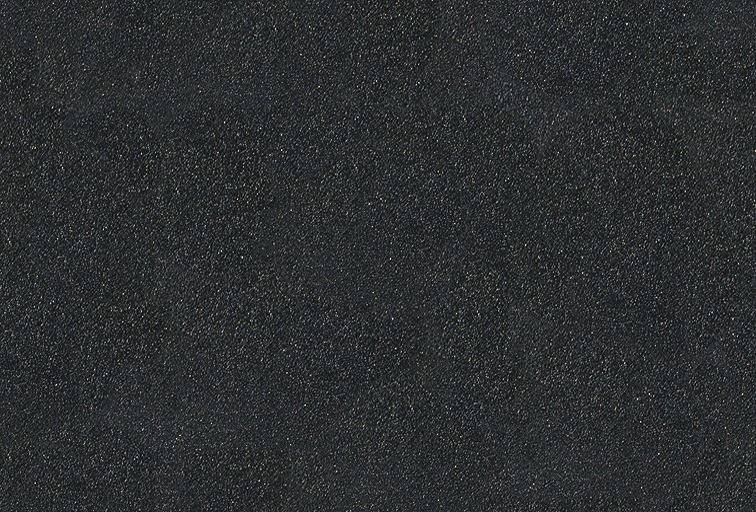
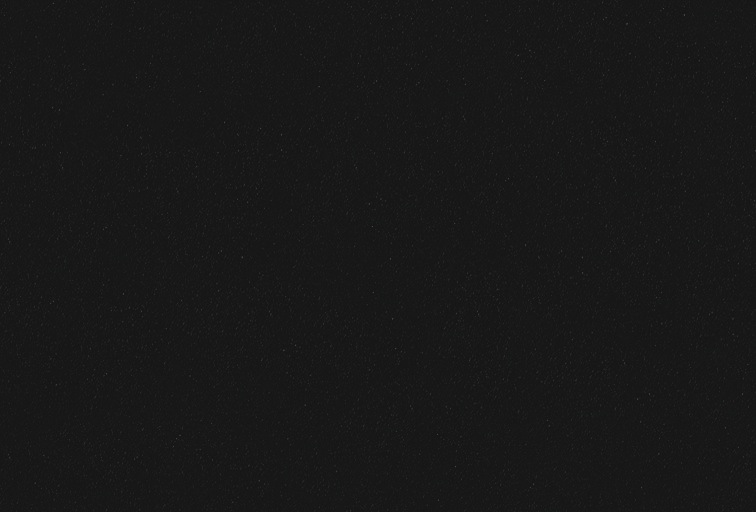
Tweaking a road surface

diff --git a/public/stylesheets/style.css b/public/stylesheets/style.css
@@ -43,4 +43,5 @@ footer a {
 }
 #content #world {
   border: 0px solid #eee;
+  background: url("/images/road-touched.jpg");
 }
